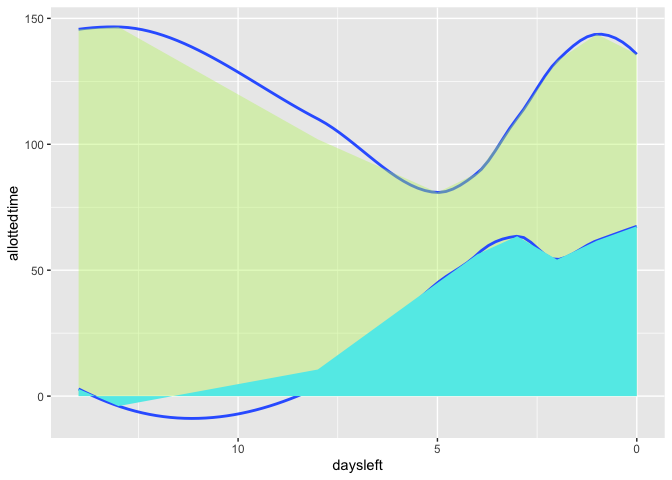
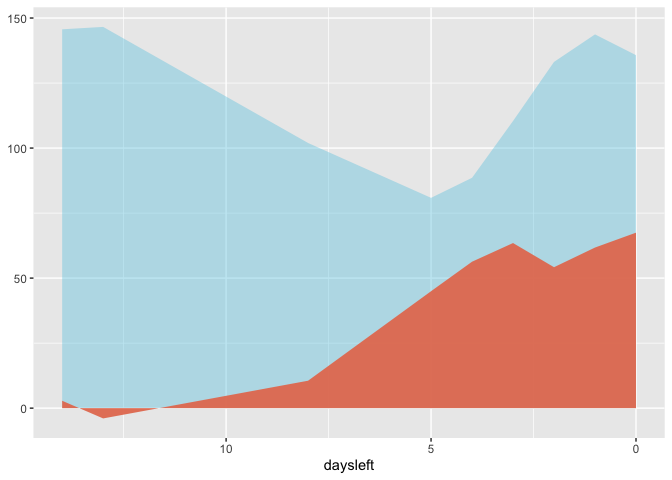
commit

diff --git a/index.md b/index.md
@@ -187,8 +187,22 @@ for writing assignments. However, let’s control for proportions.
 
 ![](index_files/figure-markdown_strict/unnamed-chunk-9-1.png)
 
-![](index_files/figure-markdown_strict/unnamed-chunk-10-1.png) After
-controlling for proportions
+After controlling for proportions, we see that there seems to be some
+difference in time wasted by assignment type. Writing assignments, while
+having less variation, is predicted to always have at least 50% of the
+time wasted. By this model, I am always wasting a lot of time when I
+write! While math does have at least some of its probability
+distribution fall in the higher end, this may be due to the outlier at
+1.00.
+
+![](index_files/figure-markdown_strict/unnamed-chunk-10-1.png)
+
+Let’s factor out the outlier at 1.00 for math assignments. Below, we see
+that the probability density of the data for math does not extend above
+0.70 and that the fattest part of the probability density is around
+0.1275. However, for writing, the distribution is never lower than 0.50.
+While there is some overlap, I am clearly wasting more time when writing
+than doing math.
 
     #filter out the outlier for math
     noutliers <- productivitydata %>% filter(summary != "60, YoutubeLinear, Bed, 5")
@@ -202,48 +216,63 @@ controlling for proportions
 
 ![](index_files/figure-markdown_strict/unnamed-chunk-11-1.png)
 
-    #time productive by worktype
-    pal <- wes_palette("Darjeeling1", n=4, type = "discrete")
-    violinplot6 <- ggplot(productivitydata, aes(x = worktype, y = timeproductive, fill = worktype)) +
-      geom_violin(draw_quantiles = c(0.25, 0.5, 0.75)) + #geom_count()
-      geom_jitter(width = 0.05)+
-      scale_fill_manual(values = pal)+
-      labs(title = "Allotted Work Time That Was Used by Assignment Type",
-           y = "minutes wasted")
-    violinplot6
+Inversely, below is a graph of the proportion of time used by work type.
+We see comparable results to above.
 
-![](index_files/figure-markdown_strict/unnamed-chunk-12-1.png)
+    pal <- wes_palette("Darjeeling1", n=2, type = "discrete")
 
     violinplot7 <- ggplot(noutliers, aes(x = worktype, y = timeworkedproportion, fill = worktype)) +
-      geom_violin(draw_quantiles = c(0.25, 0.5, 0.75)) + #geom_count()
+      geom_violin(draw_quantiles = c(0.25, 0.5, 0.75)) + 
       geom_jitter(width = 0.05)+
       scale_fill_manual(values = pal)+
       labs(title = "Allotted Work Time That Was Used by Assignment Type",
            y = "minutes wasted")
     violinplot7
 
-![](index_files/figure-markdown_strict/unnamed-chunk-12-2.png)
+![](index_files/figure-markdown_strict/unnamed-chunk-12-1.png)
+
+Thirdly, we have a graph that depicts my natural work flow. After
+averaging over the observations at each day until deadline, the graph
+shows the amount of time that I’ve given myself for an assignment and
+the amounnt of time that is actually used. The amount of time that is
+used is in red while the amount of time wasted is in blue. Of course,
+because the graph is predicting based on the observations of allotted
+time and the amount of time that was productive separately, the shaded
+area is not an exact replica of the proportions of time used and wasted.
 
     #linegraph
     #manually enter missing day values
     #plot x = daysuntildeadline, y = proportionwasted
     #second layer=actual time given
     linegraph1 <- ggplot(productivitydata, aes(x = daysleft)) + 
-      geom_smooth(aes(y = allottedtime), se = FALSE, fullrange = TRUE) +
+      #geom_smooth(aes(y = allottedtime), se = FALSE, fullrange = TRUE) +
       scale_x_reverse() +
       geom_ribbon(aes(ymin = 0,ymax = predict(loess(allottedtime ~ daysleft))),
-                     alpha = 0.4, fill = "#bef26b")+
-      geom_smooth(aes(y = timeproductive), se = FALSE, fullrange = TRUE) +
+                     alpha = 0.4, fill = "#68cae3")+
+      #geom_smooth(aes(y = timeproductive), se = FALSE, fullrange = TRUE) +
       geom_ribbon(aes(ymin = 0,ymax = predict(loess(timeproductive ~ daysleft))),
-                     alpha = 1.0, fill = "#60ebe9")# +
-      #transition_reveal(rev(seq_along(daysleft)))
+                     alpha = 0.95, fill = "#e67d60")
+      
     linegraph1
-
-    ## `geom_smooth()` using method = 'loess' and formula 'y ~ x'
-    ## `geom_smooth()` using method = 'loess' and formula 'y ~ x'
 
 ![](index_files/figure-markdown_strict/unnamed-chunk-13-1.png)
 
-    cor(productivitydata$daysleft, productivitydata$timewastedproportion)
+We see that in general, as time gets closer to the due date, I am using
+more of my time. We have a correlation between the time worked and the
+days until deadline of -0.4392, which means that there is a moderate
+correlation between the amount of time worked and the days until the
+deadline. The negative value indicates that as the number of days until
+the deadline increases, the proportion of time spent working decreases,
+or as deadlines draw nearer, the proportion of time spent working
+increases. This confirms my original estimate.
 
-    ## [1] 0.4391658
+This graph is also useful because it shows that at the beginning, I am
+giving myself almost the same amount of work time as the end. Around 5
+days, I give myself less work time, even though that is when the rate of
+work increases. However, if I want to mirror my natural work flow, I
+should begin to give myself less time prior to ten days until a
+deadline, as most of that is wasted. I should give myself enough time 5
+days prior to a deadline, as I am doing right now. Overall, I see that I
+overestimate the amount of time it takes to accomplish an assignment, as
+I am giving myself a lot more time than necessary, as I was able to
+finish all the assignments in this analysis on time.
